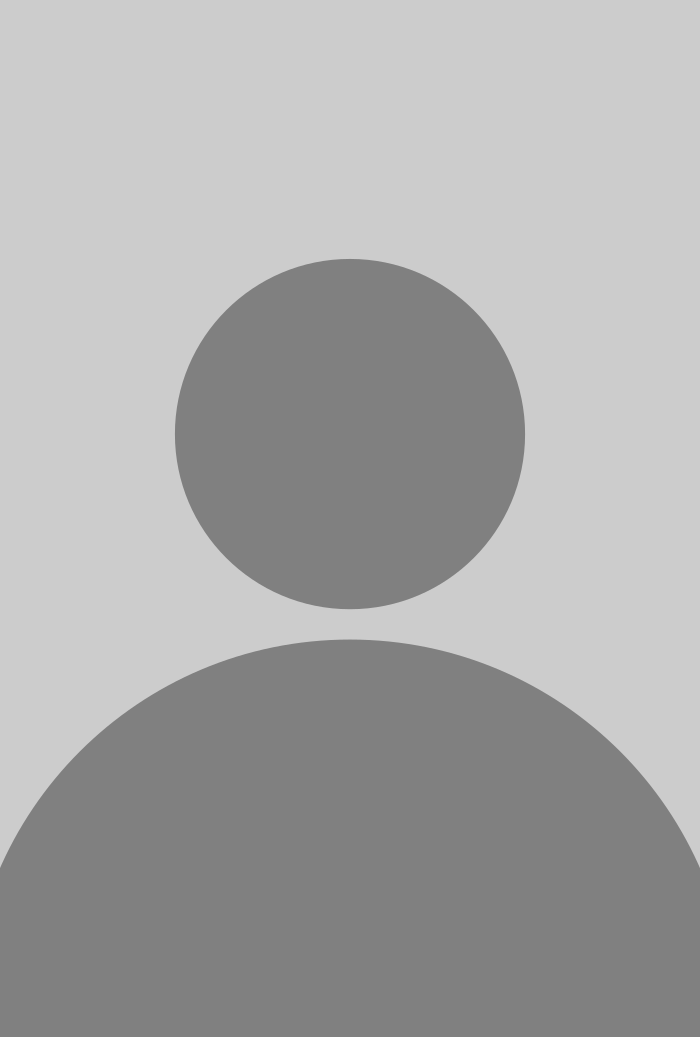
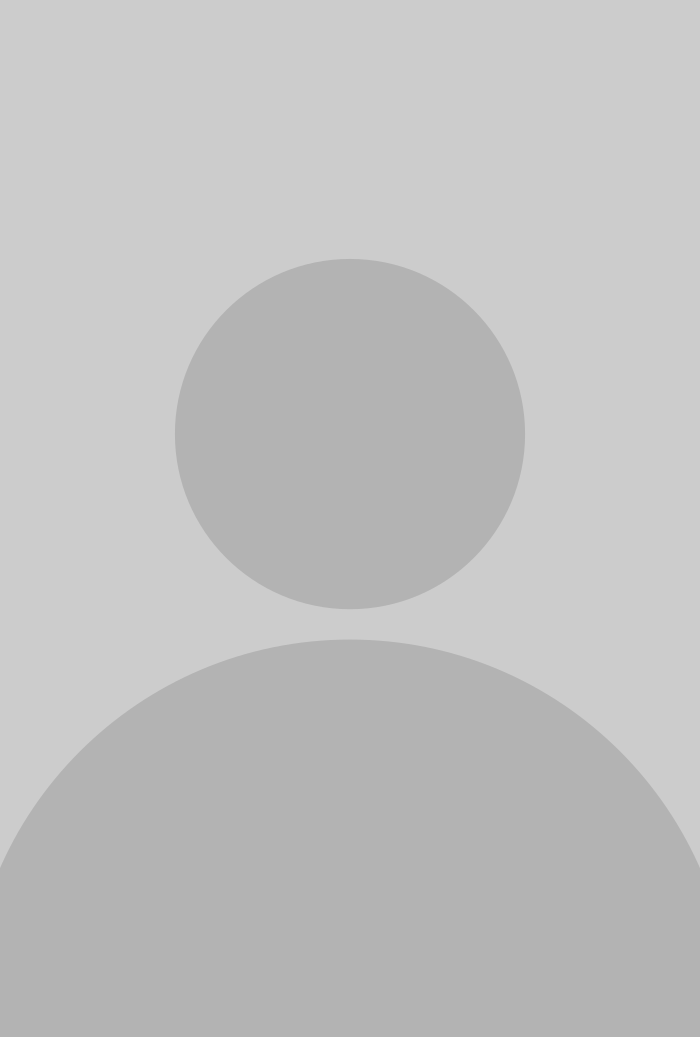
improved cards
Former-commit-id: 42003ed9bb9e02b7bf2737badefdd03ee335d4bf

diff --git a/client/src/components/PersonCard.vue b/client/src/components/PersonCard.vue
@@ -1,12 +1,12 @@
 <template>
   <b-container
     class="odd bg-light"
-    style="min-height: 210px; overflow-y: visible"
+    style="height: 210px; overflow-y: visible"
     :style="{ display: this.hideself ? 'none' : 'block' }"
   >
     <b-row>
       <img
-        style="height: auto; width: 180px"
+        style="height: 210px; width: 180px; overflow:hidden;"
         :id="'personcard' + person.id"
         :src="getImagePath(person)"
         onerror="this.src='/img/person_icon.png'"
